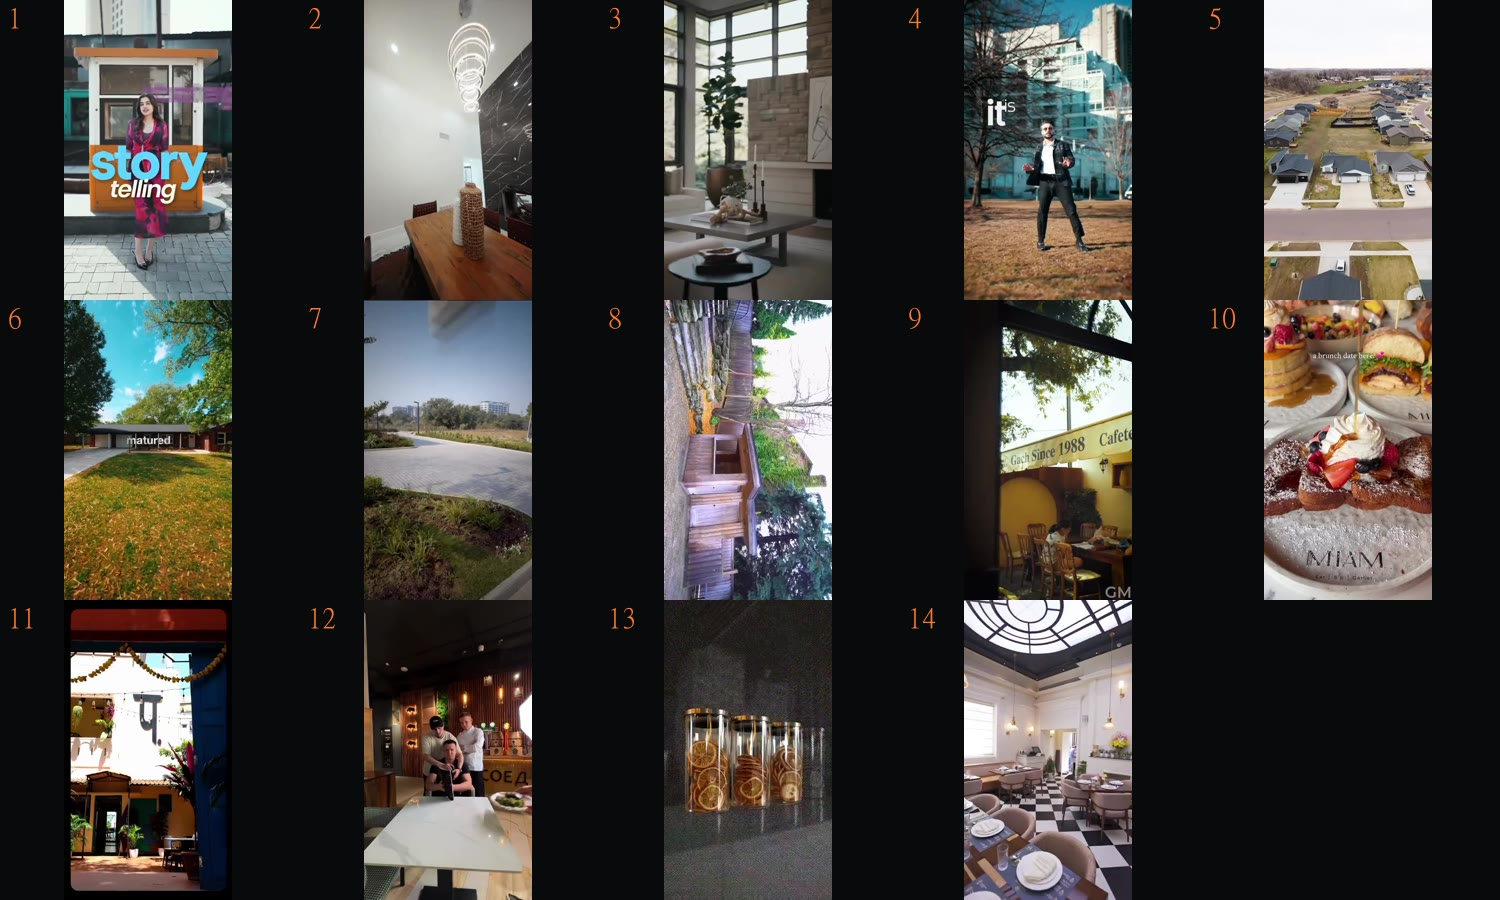
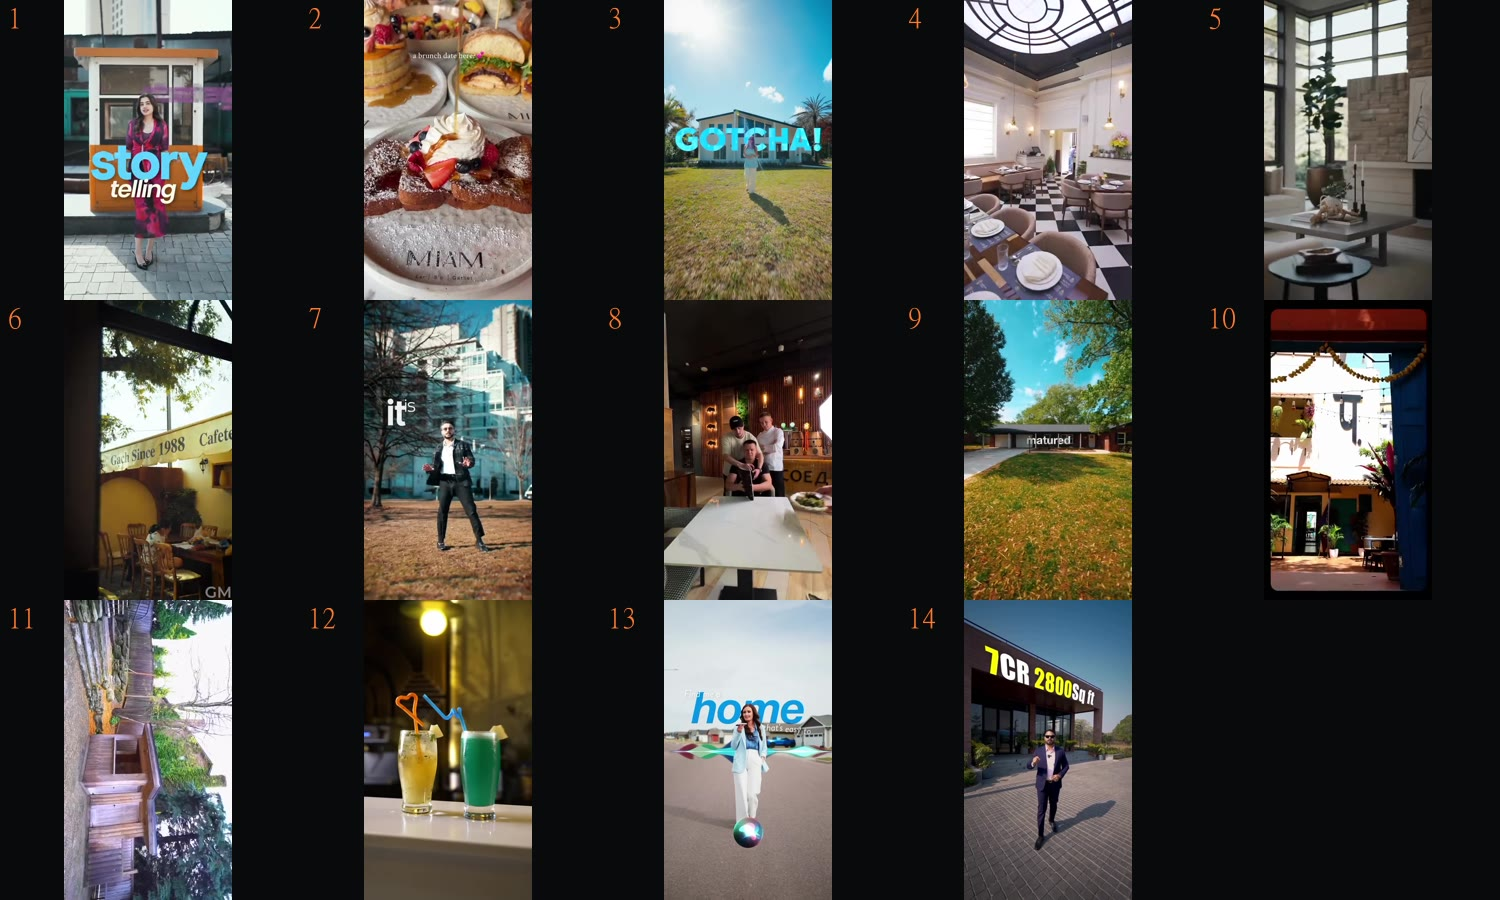
Interleave the niches and hand-pick four poster frames
Running order now alternates real estate and food/cafe instead of grouping
them. Deepak works across niches, so a visitor should see that range in the
first four cards rather than scrolling past eight property reels to reach it.
Named clients still lead.

Four posters are now pinned via posterAt because no automatic rule found a
good frame:
- karly.closedit  -> the GOTCHA title card, it sits third and was showing an
                     empty dining table
- estate-02       -> the "home" kinetic type instead of a transition seam
- estate-04       -> the 7CR/2800sqft overlay; that clip pans throughout the
                     window being sampled, so every candidate was soft
- cafe-05         -> the two cocktails; the automatic pick favours noise, and
                     the grainy jars shot was winning on that alone

posterAt is measured in source seconds rather than preview seconds, since the
best thumbnail is usually the hook at the top of a clip that the loop skips.

diff --git a/data/works.js b/data/works.js
@@ -17,6 +17,21 @@ window.WORKS = [
     "full": "media/full/digibeez.mp4"
   },
   {
+    "slug": "cafe-02",
+    "title": "Brunch Table",
+    "client": null,
+    "category": "food-cafe",
+    "orientation": "vertical",
+    "aspect": "9:16",
+    "width": 480,
+    "height": 854,
+    "duration": "00:09",
+    "longForm": false,
+    "poster": "media/poster/cafe-02.jpg",
+    "preview": "media/preview/cafe-02.mp4",
+    "full": "media/full/cafe-02.mp4"
+  },
+  {
     "slug": "karly-closedit",
     "title": "Karly Closed It",
     "client": "karly.closedit",
@@ -30,6 +45,21 @@ window.WORKS = [
     "poster": "media/poster/karly-closedit.jpg",
     "preview": "media/preview/karly-closedit.mp4",
     "full": "media/full/karly-closedit.mp4"
+  },
+  {
+    "slug": "cafe-06",
+    "title": "Dining Room",
+    "client": null,
+    "category": "food-cafe",
+    "orientation": "vertical",
+    "aspect": "9:16",
+    "width": 480,
+    "height": 854,
+    "duration": "00:14",
+    "longForm": false,
+    "poster": "media/poster/cafe-06.jpg",
+    "preview": "media/preview/cafe-06.mp4",
+    "full": "media/full/cafe-06.mp4"
   },
   {
     "slug": "reddoormedia",
@@ -47,83 +77,8 @@ window.WORKS = [
     "full": "media/full/reddoormedia.mp4"
   },
   {
-    "slug": "estate-01",
-    "title": "Property Feature 01",
-    "client": null,
-    "category": "real-estate",
-    "orientation": "vertical",
-    "aspect": "9:16",
-    "width": 480,
-    "height": 854,
-    "duration": "00:44",
-    "longForm": false,
-    "poster": "media/poster/estate-01.jpg",
-    "preview": "media/preview/estate-01.mp4",
-    "full": "media/full/estate-01.mp4"
-  },
-  {
-    "slug": "estate-02",
-    "title": "Property Feature 02",
-    "client": null,
-    "category": "real-estate",
-    "orientation": "vertical",
-    "aspect": "9:16",
-    "width": 480,
-    "height": 854,
-    "duration": "00:50",
-    "longForm": false,
-    "poster": "media/poster/estate-02.jpg",
-    "preview": "media/preview/estate-02.mp4",
-    "full": "media/full/estate-02.mp4"
-  },
-  {
-    "slug": "estate-03",
-    "title": "Property Feature 03",
-    "client": null,
-    "category": "real-estate",
-    "orientation": "vertical",
-    "aspect": "9:16",
-    "width": 480,
-    "height": 854,
-    "duration": "01:01",
-    "longForm": false,
-    "poster": "media/poster/estate-03.jpg",
-    "preview": "media/preview/estate-03.mp4",
-    "full": "media/full/estate-03.mp4"
-  },
-  {
-    "slug": "estate-04",
-    "title": "Property Feature 04",
-    "client": null,
-    "category": "real-estate",
-    "orientation": "vertical",
-    "aspect": "9:16",
-    "width": 480,
-    "height": 854,
-    "duration": "00:51",
-    "longForm": false,
-    "poster": "media/poster/estate-04.jpg",
-    "preview": "media/preview/estate-04.mp4",
-    "full": "media/full/estate-04.mp4"
-  },
-  {
-    "slug": "estate-05",
-    "title": "Property Feature 05",
-    "client": null,
-    "category": "real-estate",
-    "orientation": "vertical",
-    "aspect": "9:16",
-    "width": 480,
-    "height": 854,
-    "duration": "02:00",
-    "longForm": true,
-    "poster": "media/poster/estate-05.jpg",
-    "preview": "media/preview/estate-05.mp4",
-    "full": "media/full/estate-05.mp4"
-  },
-  {
     "slug": "cafe-01",
-    "title": "Food & Cafe 01",
+    "title": "Corner Cafe",
     "client": null,
     "category": "food-cafe",
     "orientation": "vertical",
@@ -137,38 +92,23 @@ window.WORKS = [
     "full": "media/full/cafe-01.mp4"
   },
   {
-    "slug": "cafe-02",
-    "title": "Food & Cafe 02",
+    "slug": "estate-01",
+    "title": "Agent Feature",
     "client": null,
-    "category": "food-cafe",
+    "category": "real-estate",
     "orientation": "vertical",
     "aspect": "9:16",
     "width": 480,
     "height": 854,
-    "duration": "00:09",
+    "duration": "00:44",
     "longForm": false,
-    "poster": "media/poster/cafe-02.jpg",
-    "preview": "media/preview/cafe-02.mp4",
-    "full": "media/full/cafe-02.mp4"
-  },
-  {
-    "slug": "cafe-03",
-    "title": "Food & Cafe 03",
-    "client": null,
-    "category": "food-cafe",
-    "orientation": "vertical",
-    "aspect": "9:16",
-    "width": 480,
-    "height": 854,
-    "duration": "00:10",
-    "longForm": false,
-    "poster": "media/poster/cafe-03.jpg",
-    "preview": "media/preview/cafe-03.mp4",
-    "full": "media/full/cafe-03.mp4"
+    "poster": "media/poster/estate-01.jpg",
+    "preview": "media/preview/estate-01.mp4",
+    "full": "media/full/estate-01.mp4"
   },
   {
     "slug": "cafe-04",
-    "title": "Food & Cafe 04",
+    "title": "Kitchen Pass",
     "client": null,
     "category": "food-cafe",
     "orientation": "vertical",
@@ -182,8 +122,53 @@ window.WORKS = [
     "full": "media/full/cafe-04.mp4"
   },
   {
+    "slug": "estate-03",
+    "title": "Fully Remodeled",
+    "client": null,
+    "category": "real-estate",
+    "orientation": "vertical",
+    "aspect": "9:16",
+    "width": 480,
+    "height": 854,
+    "duration": "01:01",
+    "longForm": false,
+    "poster": "media/poster/estate-03.jpg",
+    "preview": "media/preview/estate-03.mp4",
+    "full": "media/full/estate-03.mp4"
+  },
+  {
+    "slug": "cafe-03",
+    "title": "Courtyard",
+    "client": null,
+    "category": "food-cafe",
+    "orientation": "vertical",
+    "aspect": "9:16",
+    "width": 480,
+    "height": 854,
+    "duration": "00:10",
+    "longForm": false,
+    "poster": "media/poster/cafe-03.jpg",
+    "preview": "media/preview/cafe-03.mp4",
+    "full": "media/full/cafe-03.mp4"
+  },
+  {
+    "slug": "estate-05",
+    "title": "Estate Tour",
+    "client": null,
+    "category": "real-estate",
+    "orientation": "vertical",
+    "aspect": "9:16",
+    "width": 480,
+    "height": 854,
+    "duration": "02:00",
+    "longForm": true,
+    "poster": "media/poster/estate-05.jpg",
+    "preview": "media/preview/estate-05.mp4",
+    "full": "media/full/estate-05.mp4"
+  },
+  {
     "slug": "cafe-05",
-    "title": "Food & Cafe 05",
+    "title": "Bar Service",
     "client": null,
     "category": "food-cafe",
     "orientation": "vertical",
@@ -197,18 +182,33 @@ window.WORKS = [
     "full": "media/full/cafe-05.mp4"
   },
   {
-    "slug": "cafe-06",
-    "title": "Food & Cafe 06",
+    "slug": "estate-02",
+    "title": "Easy To Love",
     "client": null,
-    "category": "food-cafe",
+    "category": "real-estate",
     "orientation": "vertical",
     "aspect": "9:16",
     "width": 480,
     "height": 854,
-    "duration": "00:14",
+    "duration": "00:50",
     "longForm": false,
-    "poster": "media/poster/cafe-06.jpg",
-    "preview": "media/preview/cafe-06.mp4",
-    "full": "media/full/cafe-06.mp4"
+    "poster": "media/poster/estate-02.jpg",
+    "preview": "media/preview/estate-02.mp4",
+    "full": "media/full/estate-02.mp4"
+  },
+  {
+    "slug": "estate-04",
+    "title": "Sobha Aranya",
+    "client": null,
+    "category": "real-estate",
+    "orientation": "vertical",
+    "aspect": "9:16",
+    "width": 480,
+    "height": 854,
+    "duration": "00:51",
+    "longForm": false,
+    "poster": "media/poster/estate-04.jpg",
+    "preview": "media/preview/estate-04.mp4",
+    "full": "media/full/estate-04.mp4"
   }
 ];

diff --git a/tools/encode.js b/tools/encode.js
@@ -203,11 +203,16 @@ function encodeOne(video) {
 
   if (FORCE || !usable(out.poster)) {
     if (typeof video.posterAt === 'number') {
-      // Hand-picked: seconds into the preview, for the clips where no automatic
-      // rule finds a good frame (a shot that pans throughout, say).
+      // Hand-picked, in SOURCE seconds — deliberately not restricted to the
+      // preview window, because the best thumbnail is often the title card or
+      // hook right at the top of the clip, which the loop skips past. The
+      // poster then isn't the loop's first frame, but the video cross-fades in
+      // over 350ms so the join doesn't read as a jump.
       run(FFMPEG, [
-        '-y', '-ss', String(video.posterAt), '-i', out.preview,
-        '-frames:v', '1', '-q:v', '4', out.poster,
+        '-y', '-ss', String(video.posterAt), '-i', src,
+        '-frames:v', '1',
+        '-vf', `scale=${size.preview}:-2:flags=lanczos`,
+        '-q:v', '4', out.poster,
       ]);
     } else {
       pickPoster(out.preview, out.poster, previewLen);
